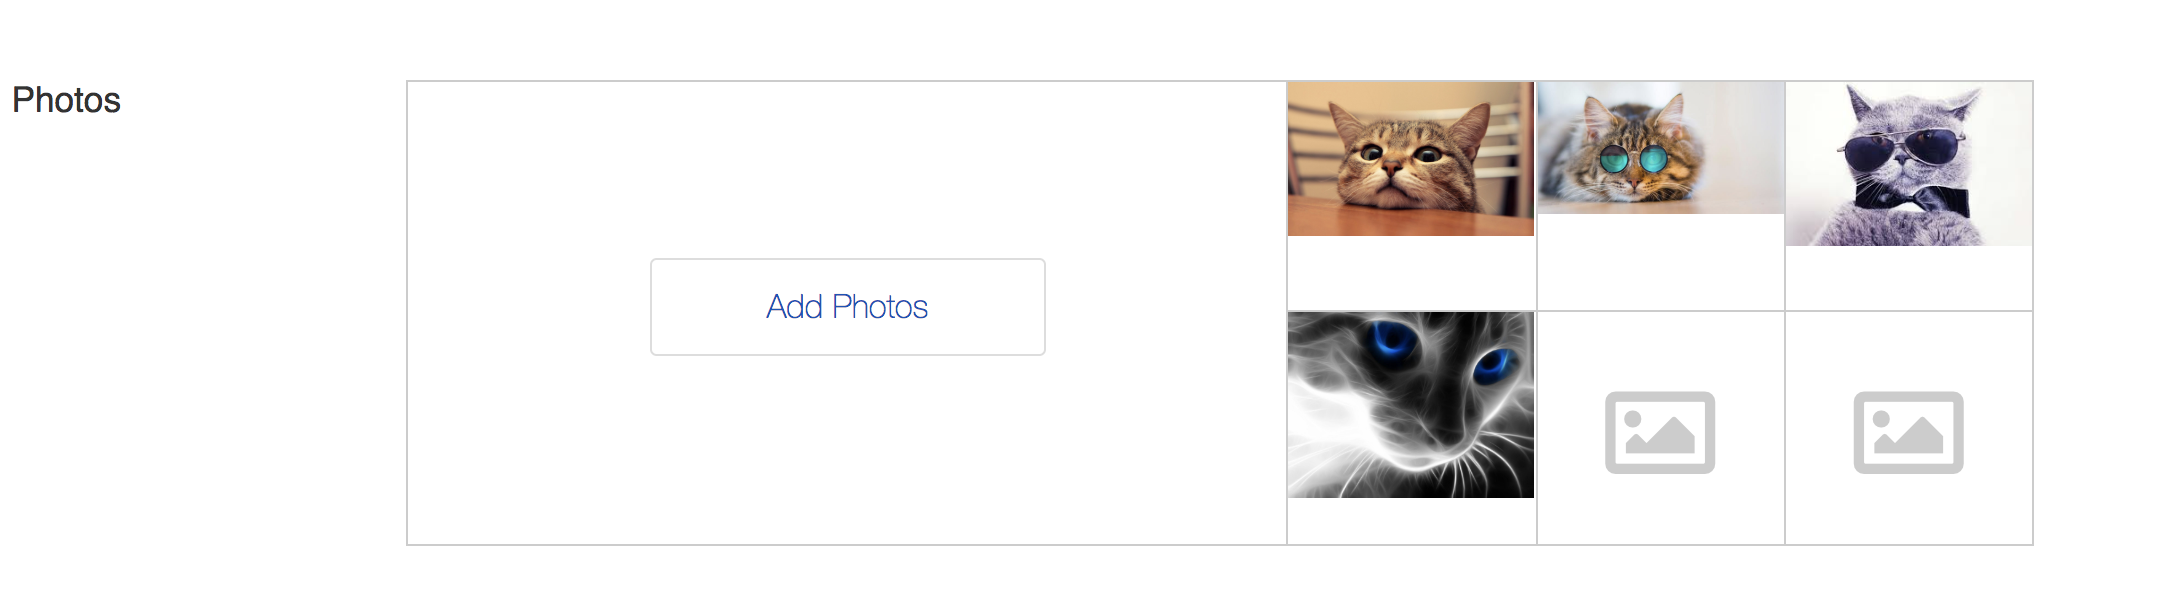
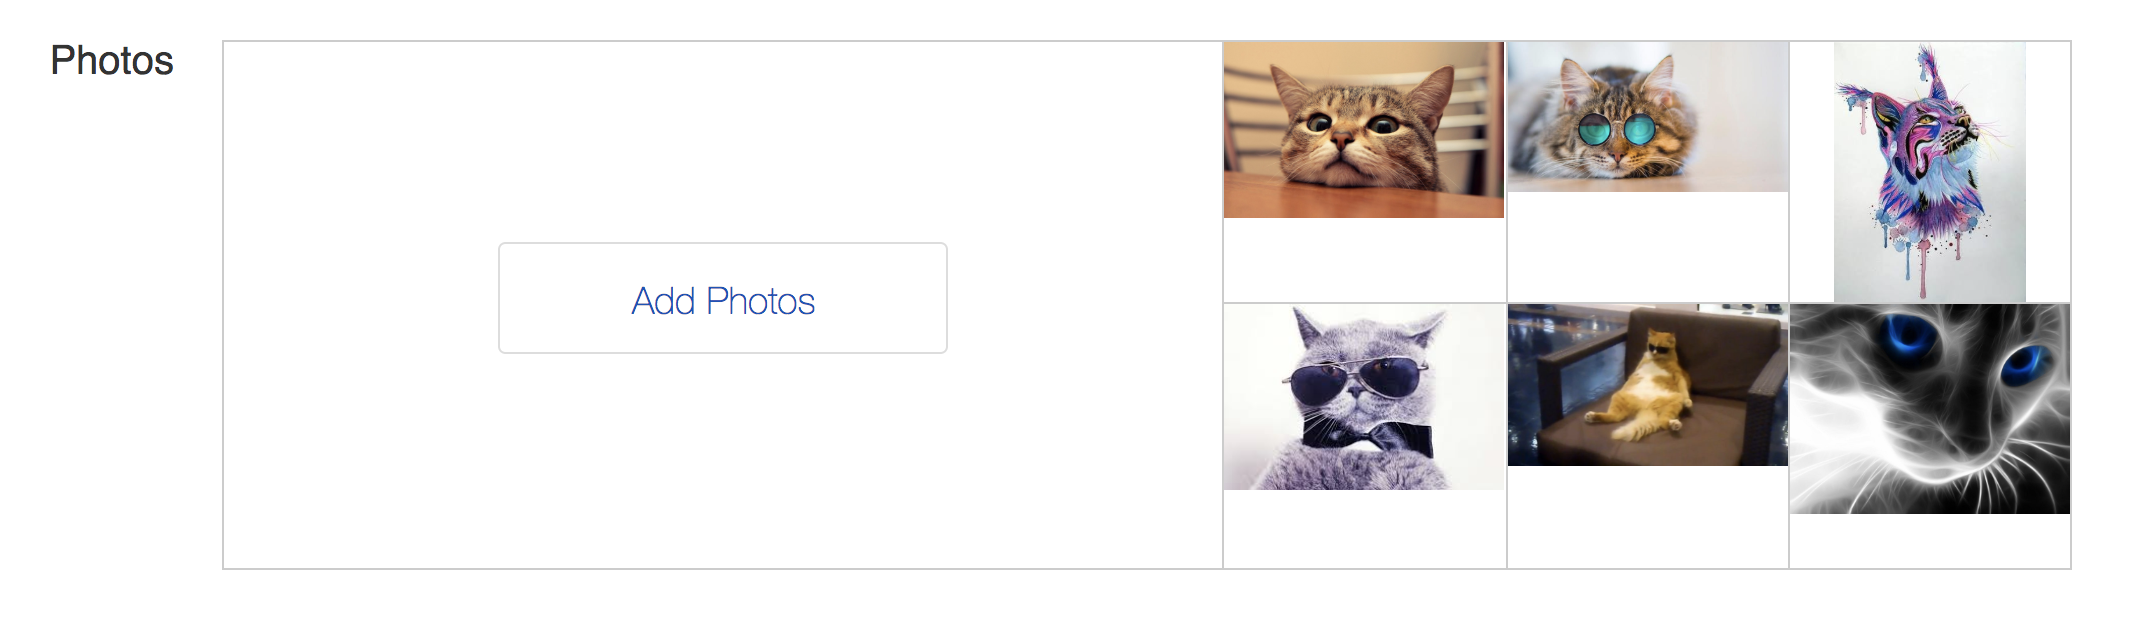
Add image to readme

diff --git a/README.md b/README.md
@@ -12,6 +12,10 @@ The project was designed and built during a 10 day timeframe, and I plan to make
 * Search dynamically populates with possible titles
 * Products can have up to 6 images which can be previewed and uploaded during creation
 
+# Image preview & upload
+
+![preview_snippet](/app/assets/images/preview_snippet.png)
+
 # Technologies
 
 Rails was used for this project on the backend due to its built in support for relational databases and simple routing. Since this was a small scale portfolio project, convenience and simplicity were chosen over scalability. 
@@ -22,5 +26,3 @@ Frontend Redux state is split into various segments for users, products, bids, i
 
 User pages with listings of all created or purchased products
 Product feedback
-
-![preview_snippet](/app/assets/images/preview_snippet)
